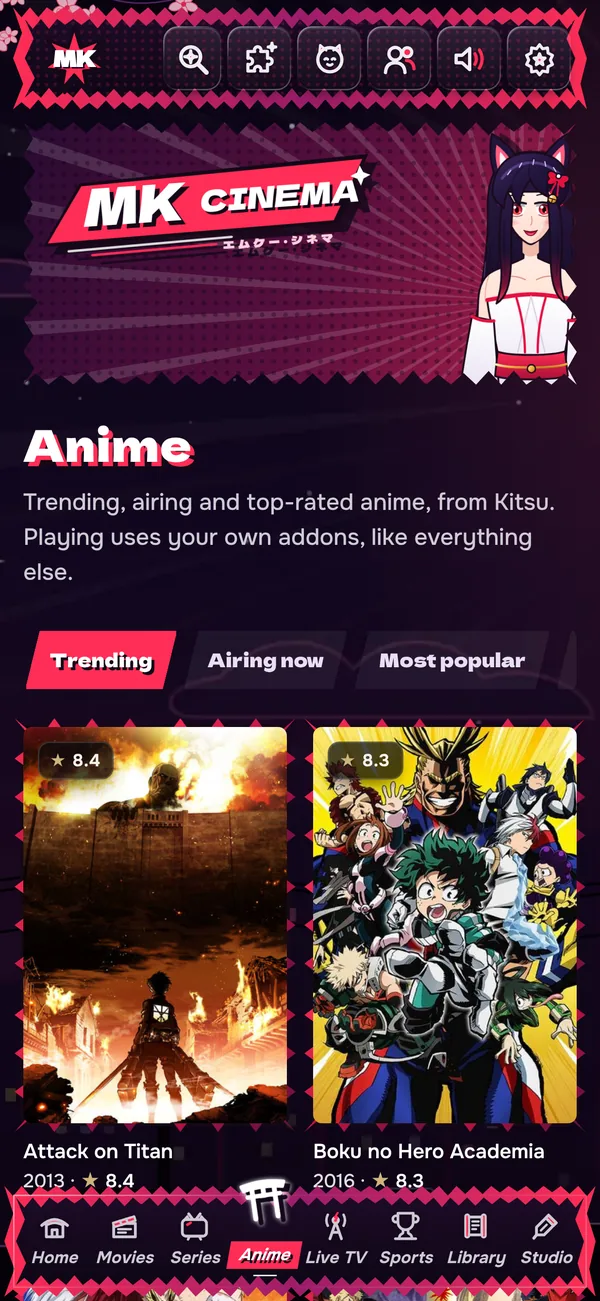
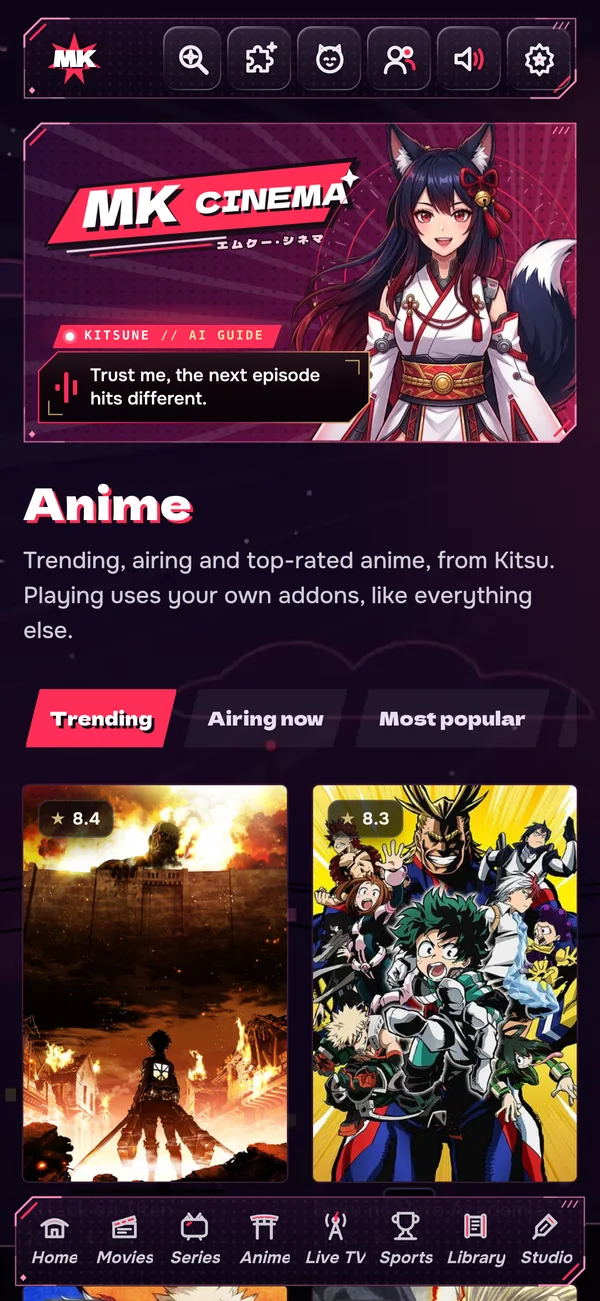
README and site: Anime screenshots with the new kitsune Miko
Recaptured from the live web app: the Anime tab banner now shows the
kitsune guide and the thin cut-corner frames. Same files, same sizes
(1600x1000 desktop, 600x1301 phone). The Home caption no longer
mentions Miko, since she only appears on the Anime tab.

Claude-Session: https://claude.ai/code/session_01JpreZFNM6DUawGBbfkL8Ck

diff --git a/README.md b/README.md
@@ -265,7 +265,7 @@ VLC is a great file player, and MKCinema keeps it one tap away for the formats a
 <table>
 <tr>
 <td width="40%" align="center"><img src="docs/screenshots/app-anime.webp" alt="The Anime tab"><br><sub>The Anime tab: trending, airing now, most popular, top rated</sub></td>
-<td width="40%" align="center"><img src="docs/screenshots/app-anime-home.webp" alt="Home in the Anime look"><br><sub>The Anime look, with sakura and Miko</sub></td>
+<td width="40%" align="center"><img src="docs/screenshots/app-anime-home.webp" alt="Home in the Anime look"><br><sub>Home in the Anime look, with sakura</sub></td>
 <td width="20%" align="center" rowspan="2"><img src="docs/screenshots/app-phone-anime.webp" alt="The Anime tab on a phone"><br><sub>Phones are first-class</sub></td>
 </tr>
 <tr>
